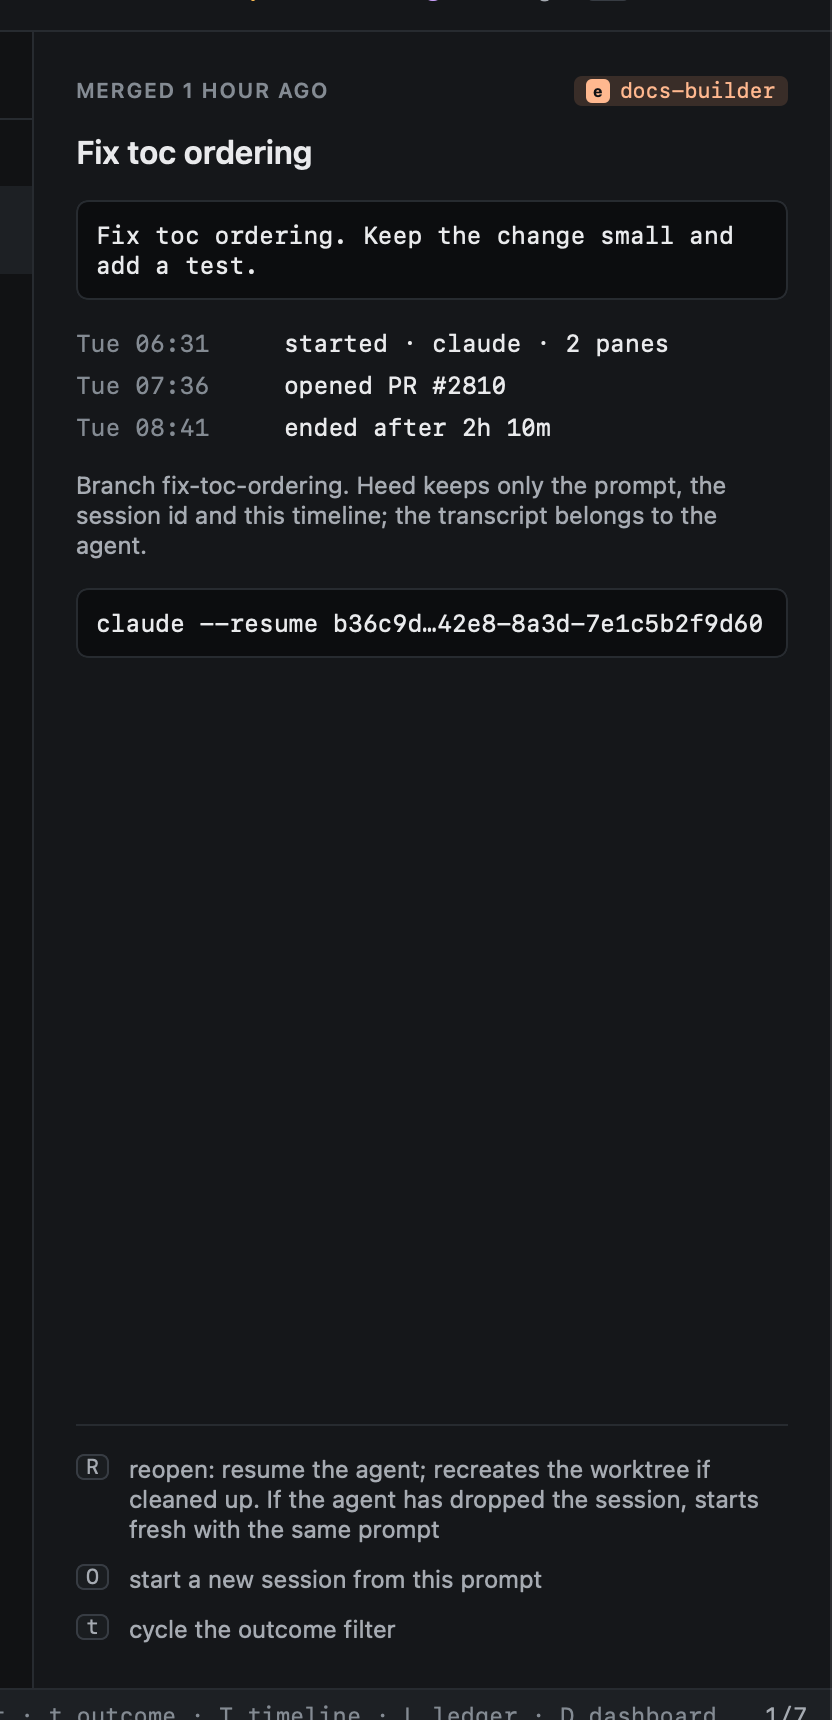
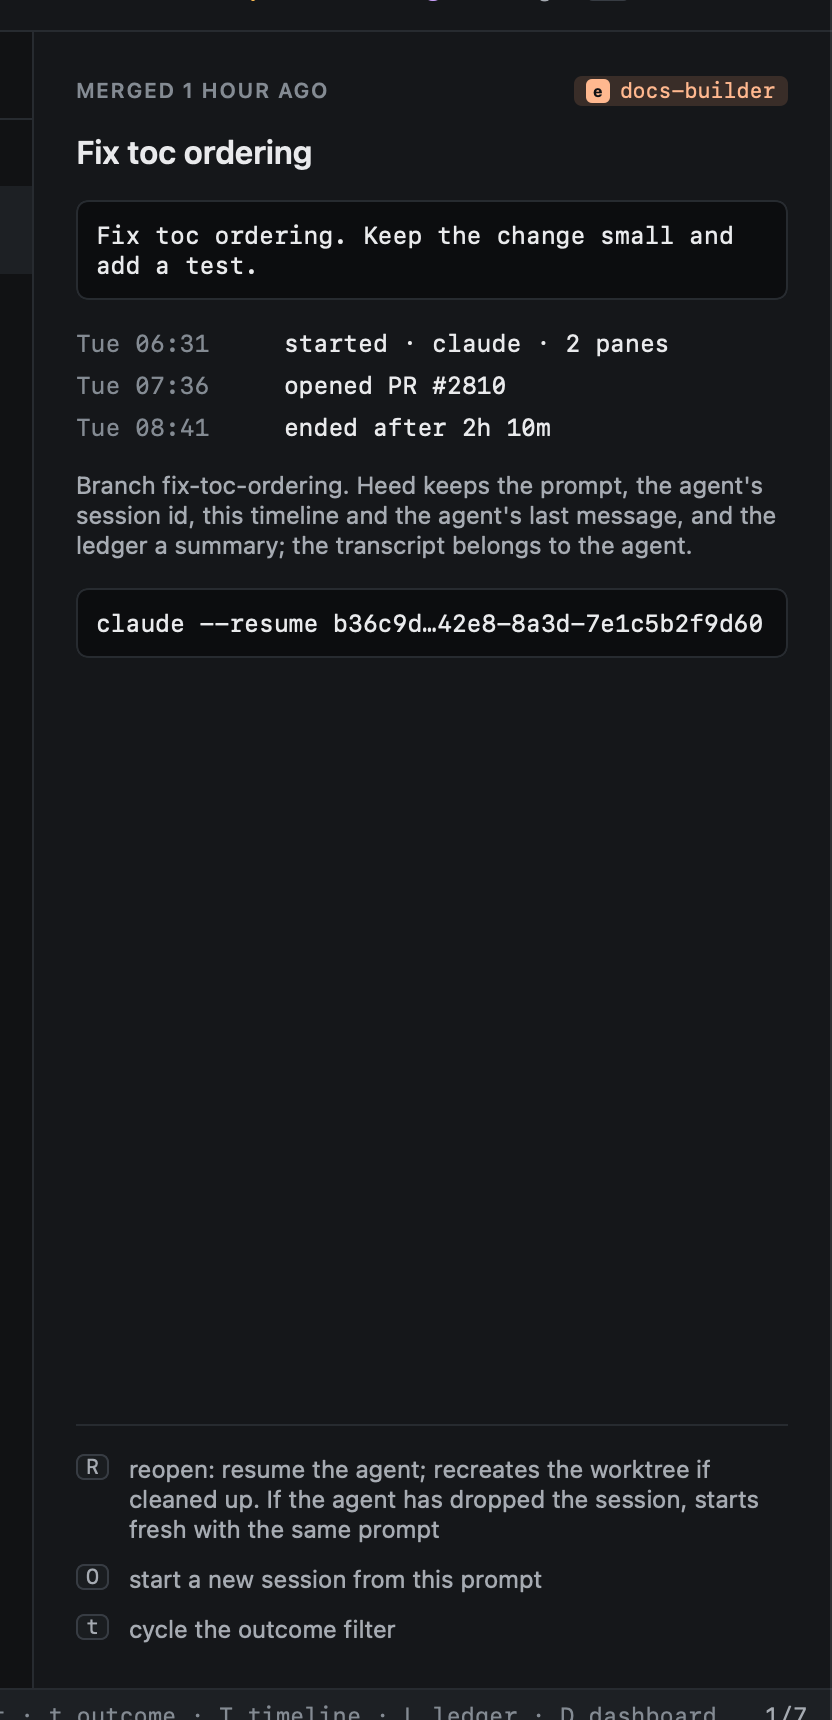
History's detail says what heed keeps now (#133)
The History detail still said "Heed keeps only the prompt, the session
id and this timeline; the transcript belongs to the agent." Since #118
each session also keeps the agent's last message, and since #123 the
ledger keeps a summary of the work. The line now reads:

> Heed keeps the prompt, the agent's session id, this timeline and the
agent's last message, and the ledger a summary; the transcript belongs
to the agent.

This matches the wording on `docs/history/index.md` in #131. The chat
variant ("A chat in …") gets the same sentence; both now share it
instead of repeating it.

**Changed**
- `Sources/HeedApp/Views/HistoryView.swift`: the sentence under the
timeline in `HistoryDetail`.
- `docs/images/shots/history/detail.png`: re-rendered alone
(`HEED_SHOTS_ONLY=history/detail`) from the fixture world; I looked at
the PNG and it shows the new sentence. No other shot was re-rendered.

**Verified**
- `mise run test`: 801 tests pass. `mise run lint`: clean.

🤖 Generated with [Claude Code](https://claude.com/claude-code)

Changed region(s): [[0.0938, 0.2773, 0.9375, 0.339]]

diff --git a/Sources/HeedApp/Views/HistoryView.swift b/Sources/HeedApp/Views/HistoryView.swift
@@ -218,9 +218,11 @@ private struct HistoryDetail: View {
                 }
             }
             Text(
-                entry.session.chat.map { chat in
-                    "A chat in \(chat.kind == .scratch ? "a scratch folder, " : "")\(Paths.tilde(chat.path)). Heed keeps only the prompt, the session id and this timeline; the transcript belongs to the agent."
-                } ?? "Branch \(entry.session.branch). Heed keeps only the prompt, the session id and this timeline; the transcript belongs to the agent."
+                (entry.session.chat.map { chat in
+                    "A chat in \(chat.kind == .scratch ? "a scratch folder, " : "")\(Paths.tilde(chat.path))."
+                } ?? "Branch \(entry.session.branch).")
+                    + " Heed keeps the prompt, the agent's session id, this timeline and the agent's last message, and"
+                    + " the ledger a summary; the transcript belongs to the agent."
             )
             .font(Theme.ui(12))
             .foregroundStyle(Theme.fg2)
